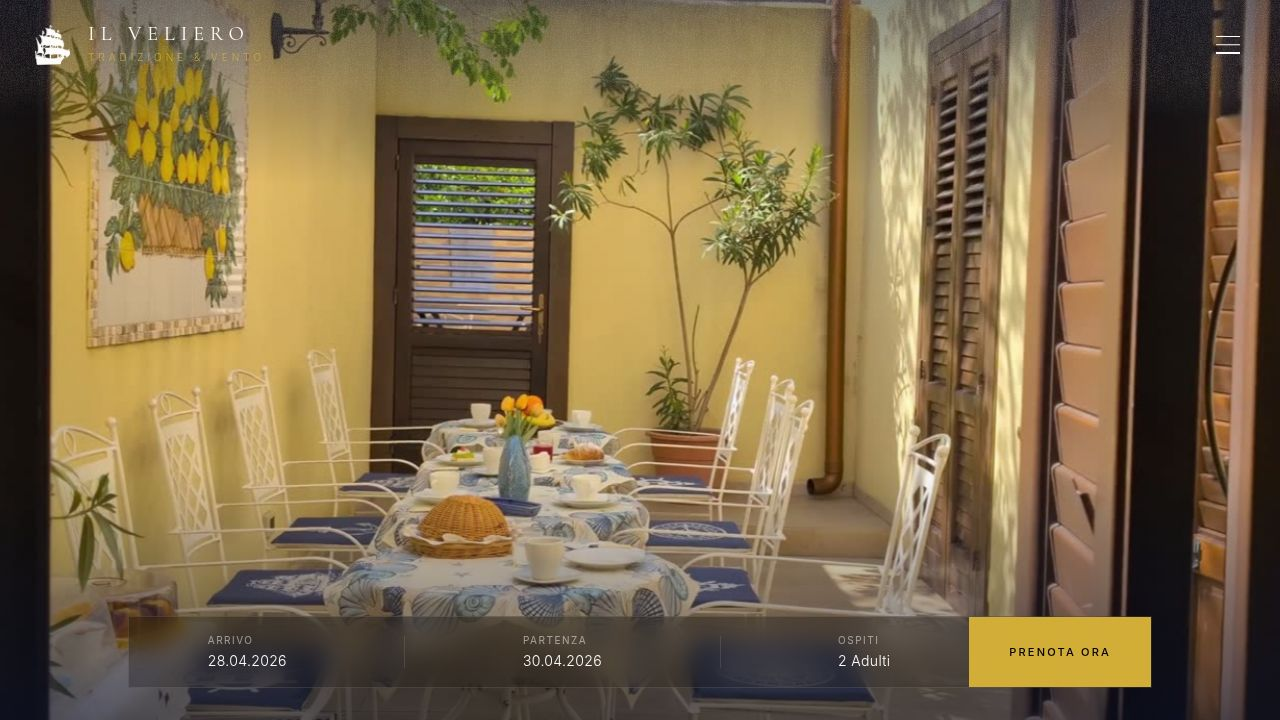
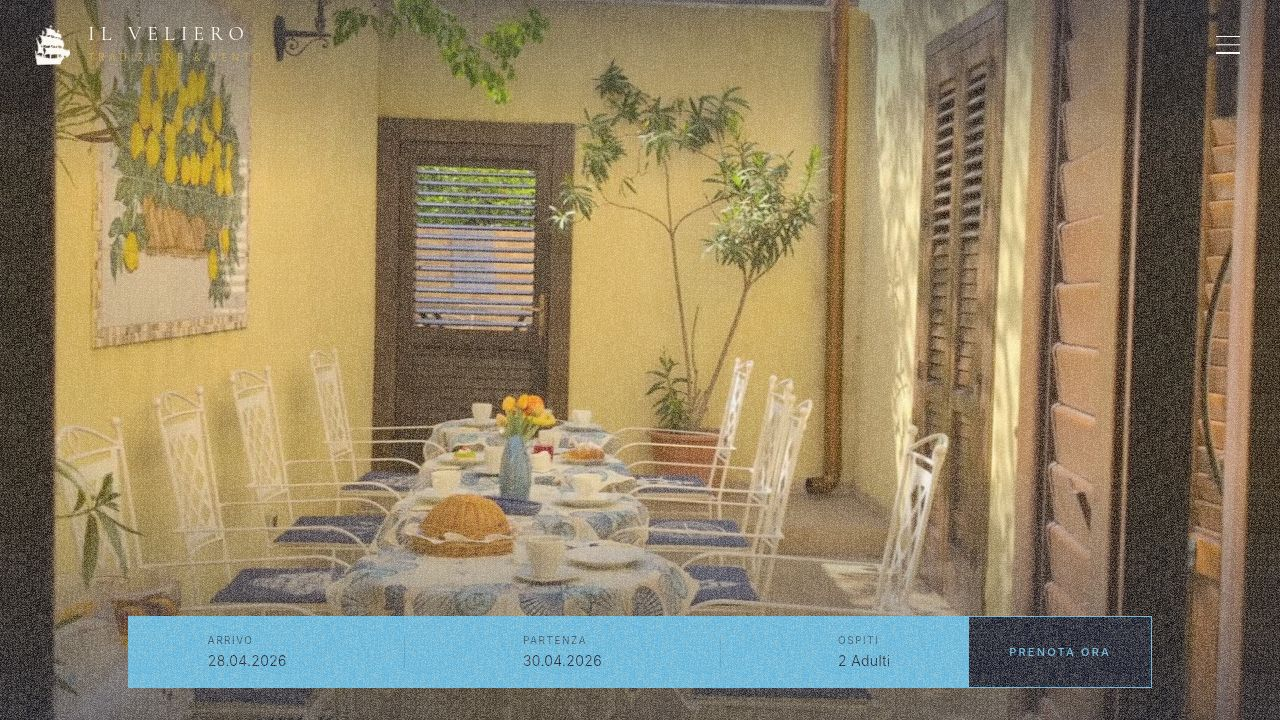
Improve audio effects and visual consistency across the site
Update audio playback for a more natural sound experience, ensure sand texture is always visible, adjust layering for better card visibility, remove redundant numerical indicators, and recolor the booking widget to a sky blue theme.

Replit-Commit-Author: Agent
Replit-Commit-Session-Id: 3282c254-39d9-4994-9800-a5c7eca78cf3
Replit-Commit-Checkpoint-Type: full_checkpoint
Replit-Commit-Event-Id: e3debff6-a54f-4010-af53-1acadac1ebcd
Replit-Commit-Screenshot-Url: https://storage.googleapis.com/screenshot-production-us-central1/efa49c66-f8b0-48f0-b6b8-e5fd97cf85d3/3282c254-39d9-4994-9800-a5c7eca78cf3/vIFCmKS
Replit-Helium-Checkpoint-Created: true

diff --git a/artifacts/il-veliero/src/components/SeaSound.tsx b/artifacts/il-veliero/src/components/SeaSound.tsx
@@ -3,21 +3,31 @@ import { useEffect, useRef } from 'react';
 /**
  * SeaSound — invisible.
  *
- * Simple rule: every touch (or click / first user gesture) plays
- *   - a 0.7-second burst of synthesised surf
- *   - the real seagull cry on top
- *
- * That's it. No scheduling, no intensity, no decay.
+ * Trigger rules (per latest user request):
+ *   • A trigger fires on touch, click, AND on desktop wheel/scroll
+ *     so that audio plays both on tap and on scroll-listing.
+ *   • A throttle of 700 ms between triggers prevents the surf bursts
+ *     from merging into one continuous wash while the user scrolls.
+ *   • Every trigger plays a 1.5-second surf wash with a slow fade
+ *     in / fade out so it sounds like a real wave, not a chopped clip.
+ *   • Every SECOND trigger also plays a real seagull cry on top of
+ *     the surf — i.e. the gull is heard every other touch, never on
+ *     consecutive ones.
  */
 const SEAGULL_URL = `${import.meta.env.BASE_URL}audio/seagull.mp3`;
+
+const MIN_GAP_MS = 700;
+const SURF_DURATION = 1.5;
 
 export default function SeaSound() {
   const ctxRef = useRef<AudioContext | null>(null);
   const gullBufferRef = useRef<AudioBuffer | null>(null);
   const noiseBufferRef = useRef<AudioBuffer | null>(null);
+  const lastFiredRef = useRef<number>(0);
+  const triggerCountRef = useRef<number>(0);
 
   useEffect(() => {
-    /** White-then-low-passed noise buffer — sounds like surf. */
+    /** Brown-noise buffer — sounds like ocean wash once low-passed. */
     const makeNoiseBuffer = (ctx: AudioContext, seconds: number): AudioBuffer => {
       const buf = ctx.createBuffer(1, ctx.sampleRate * seconds, ctx.sampleRate);
       const data = buf.getChannelData(0);
@@ -31,9 +41,10 @@ export default function SeaSound() {
     };
 
     /**
-     * Lazily create the AudioContext on the first user gesture
-     * (browsers reject context creation/resume otherwise) and
-     * decode the seagull MP3 once.
+     * Create the AudioContext and decode the seagull MP3 lazily, on
+     * the first user gesture. Browsers reject audio output before a
+     * user gesture, so this MUST happen inside an event handler call
+     * stack (it does — onGesture awaits this).
      */
     const ensureContext = async (): Promise<AudioContext | null> => {
       if (ctxRef.current) return ctxRef.current;
@@ -45,7 +56,7 @@ export default function SeaSound() {
 
       const ctx = new Ctor();
       ctxRef.current = ctx;
-      noiseBufferRef.current = makeNoiseBuffer(ctx, 1.5);
+      noiseBufferRef.current = makeNoiseBuffer(ctx, 3.0);
 
       if (ctx.state === 'suspended') {
         try {
@@ -55,42 +66,43 @@ export default function SeaSound() {
         }
       }
 
-      // Fetch + decode the seagull recording. First touch may fire
-      // before this resolves — that's fine, the cry will simply
-      // start playing on the next touch once the buffer is ready.
       try {
         const r = await fetch(SEAGULL_URL);
         const ab = await r.arrayBuffer();
         gullBufferRef.current = await ctx.decodeAudioData(ab);
       } catch {
-        /* ignore — surf still plays */
+        /* ignore — surf will still play */
       }
 
       return ctx;
     };
 
-    /** Play 0.7s of surf noise. */
+    /** Long, naturally-shaped surf wash. */
     const playSurf = (ctx: AudioContext) => {
       const noise = noiseBufferRef.current;
       if (!noise) return;
       const now = ctx.currentTime;
-      const dur = 0.7;
+      const dur = SURF_DURATION;
 
       const src = ctx.createBufferSource();
       src.buffer = noise;
-      // Random start offset within the 1.5s noise buffer for variety.
-      const offset = Math.random() * (noise.duration - dur - 0.05);
+      const offset = Math.random() * Math.max(0, noise.duration - dur - 0.05);
 
       const lp = ctx.createBiquadFilter();
       lp.type = 'lowpass';
-      lp.frequency.value = 800;
-      lp.Q.value = 0.6;
+      lp.frequency.value = 750;
+      lp.Q.value = 0.5;
+
+      const peak = 0.4;
+      const fadeIn = 0.45;
+      const fadeOut = 0.55;
+      const sustainStart = now + fadeIn;
+      const sustainEnd = now + dur - fadeOut;
 
       const g = ctx.createGain();
-      // Soft fade-in / fade-out so the burst feels like a wave wash.
       g.gain.setValueAtTime(0.0001, now);
-      g.gain.exponentialRampToValueAtTime(0.45, now + 0.1);
-      g.gain.setValueAtTime(0.45, now + dur - 0.18);
+      g.gain.exponentialRampToValueAtTime(peak, sustainStart);
+      g.gain.setValueAtTime(peak, Math.max(sustainStart + 0.01, sustainEnd));
       g.gain.exponentialRampToValueAtTime(0.0005, now + dur);
 
       src.connect(lp).connect(g).connect(ctx.destination);
@@ -108,13 +120,12 @@ export default function SeaSound() {
       }, (dur + 0.5) * 1000);
     };
 
-    /** Play one seagull cry on top of the surf. */
+    /** One seagull cry, with pitch & stereo variation. */
     const playGull = (ctx: AudioContext) => {
       const buffer = gullBufferRef.current;
       if (!buffer) return;
       const now = ctx.currentTime;
 
-      // 0.9..1.6s slice of the source recording.
       const sliceDur = 0.9 + Math.random() * 0.7;
       const maxStart = Math.max(0, buffer.duration - sliceDur - 0.05);
       const startOffset = Math.random() * maxStart;
@@ -157,24 +168,40 @@ export default function SeaSound() {
       }, (ctxDur + 0.5) * 1000);
     };
 
-    /** Single handler: ensure context, then play surf + gull. */
+    /**
+     * Single throttled handler. Surf on every accepted trigger;
+     * seagull only on every second accepted trigger.
+     */
     const onGesture = () => {
+      const now = performance.now();
+      if (now - lastFiredRef.current < MIN_GAP_MS) return;
+      lastFiredRef.current = now;
+      triggerCountRef.current += 1;
+      // Gull on every SECOND accepted trigger — i.e. 2nd, 4th, 6th… —
+      // so consecutive taps never produce two gull cries in a row.
+      const playGullThisTime = triggerCountRef.current % 2 === 0;
+
       void ensureContext().then((ctx) => {
         if (!ctx) return;
         if (ctx.state === 'suspended') {
           ctx.resume().catch(() => undefined);
         }
         playSurf(ctx);
-        playGull(ctx);
+        if (playGullThisTime) playGull(ctx);
       });
     };
 
-    window.addEventListener('touchstart', onGesture, { passive: true });
-    window.addEventListener('click', onGesture, { passive: true });
+    // pointerdown covers BOTH touch and mouse-click in one event,
+    // and wheel covers desktop trackpad / mouse-wheel scrolling.
+    // Both are passive — we never preventDefault.
+    window.addEventListener('pointerdown', onGesture, { passive: true });
+    window.addEventListener('wheel', onGesture, { passive: true });
+    window.addEventListener('keydown', onGesture, { passive: true });
 
     return () => {
-      window.removeEventListener('touchstart', onGesture);
-      window.removeEventListener('click', onGesture);
+      window.removeEventListener('pointerdown', onGesture);
+      window.removeEventListener('wheel', onGesture);
+      window.removeEventListener('keydown', onGesture);
       const ctx = ctxRef.current;
       if (ctx) {
         try {

diff --git a/artifacts/il-veliero/src/pages/Hero.tsx b/artifacts/il-veliero/src/pages/Hero.tsx
@@ -265,30 +265,37 @@ export default function Hero() {
             before. A single element / single ref / single
             data-testid is preserved so SandFilter and the GSAP intro
             both keep working. */}
+        {/* Booking widget — coloured to match the marquee band beneath it.
+            Body uses the same sky-blue (#5BB8E8) as the running text in the
+            marquee, with deep-navy (#0A1128) typography on top so the labels
+            and dates stay highly legible. The "Prenota Ora" CTA inverts to
+            navy with sky-blue text, then sweeps to a brighter aqua on hover.
+            This replaces the previous black/30-glass + gold button look the
+            user explicitly asked us to drop. */}
         <div
           ref={heroBookingRef}
-          className="relative z-20 w-full md:w-[95%] max-w-none md:max-w-5xl md:mx-auto bg-black/30 backdrop-blur-md border-y md:border border-white/10 flex flex-col md:flex-row justify-between items-stretch shadow-2xl md:absolute md:bottom-8 md:left-1/2 md:-translate-x-1/2"
+          className="relative z-20 w-full md:w-[95%] max-w-none md:max-w-5xl md:mx-auto bg-[#5BB8E8] border-y md:border border-[#5BB8E8] flex flex-col md:flex-row justify-between items-stretch shadow-2xl md:absolute md:bottom-8 md:left-1/2 md:-translate-x-1/2"
         >
-          <div className="flex-1 flex flex-col md:flex-row md:justify-around w-full px-5 md:px-6 py-4 text-white text-sm gap-3 md:gap-0 md:items-center">
+          <div className="flex-1 flex flex-col md:flex-row md:justify-around w-full px-5 md:px-6 py-4 text-[#0A1128] text-sm gap-3 md:gap-0 md:items-center">
             <div className="flex md:flex-col items-baseline md:items-start justify-between md:justify-start cursor-pointer group" data-testid="widget-checkin">
-              <span className="text-[10px] text-white/50 uppercase tracking-[0.15em] md:mb-1 group-hover:text-white transition-colors">Arrivo</span>
+              <span className="text-[10px] text-[#0A1128]/65 uppercase tracking-[0.15em] md:mb-1 group-hover:text-[#0A1128] transition-colors">Arrivo</span>
               <span className="font-light tracking-wide">28.04.2026</span>
             </div>
-            <div className="hidden md:block w-px h-8 bg-white/10 mx-2" />
-            <div className="block md:hidden h-px w-full bg-white/10" />
+            <div className="hidden md:block w-px h-8 bg-[#0A1128]/15 mx-2" />
+            <div className="block md:hidden h-px w-full bg-[#0A1128]/15" />
             <div className="flex md:flex-col items-baseline md:items-start justify-between md:justify-start cursor-pointer group" data-testid="widget-checkout">
-              <span className="text-[10px] text-white/50 uppercase tracking-[0.15em] md:mb-1 group-hover:text-white transition-colors">Partenza</span>
+              <span className="text-[10px] text-[#0A1128]/65 uppercase tracking-[0.15em] md:mb-1 group-hover:text-[#0A1128] transition-colors">Partenza</span>
               <span className="font-light tracking-wide">30.04.2026</span>
             </div>
-            <div className="hidden md:block w-px h-8 bg-white/10 mx-2" />
-            <div className="block md:hidden h-px w-full bg-white/10" />
+            <div className="hidden md:block w-px h-8 bg-[#0A1128]/15 mx-2" />
+            <div className="block md:hidden h-px w-full bg-[#0A1128]/15" />
             <div className="flex md:flex-col items-baseline md:items-start justify-between md:justify-start cursor-pointer group" data-testid="widget-guests">
-              <span className="text-[10px] text-white/50 uppercase tracking-[0.15em] md:mb-1 group-hover:text-white transition-colors">Ospiti</span>
+              <span className="text-[10px] text-[#0A1128]/65 uppercase tracking-[0.15em] md:mb-1 group-hover:text-[#0A1128] transition-colors">Ospiti</span>
               <span className="font-light tracking-wide">2 Adulti</span>
             </div>
           </div>
           <button
-            className="bg-[#D4AF37] text-black px-6 md:px-10 py-4 uppercase text-[11px] tracking-[0.2em] font-medium transition-all duration-500 w-full md:w-auto hover:shadow-xl relative overflow-hidden group"
+            className="bg-[#0A1128] text-[#5BB8E8] px-6 md:px-10 py-4 uppercase text-[11px] tracking-[0.2em] font-medium transition-all duration-500 w-full md:w-auto hover:shadow-xl relative overflow-hidden group"
             data-testid="btn-prenota"
           >
             <span className="relative z-10 transition-transform duration-300 group-hover:translate-x-1 group-hover:text-[#0A1128]">Prenota Ora</span>

diff --git a/artifacts/il-veliero/src/pages/DimoreTeaser.tsx b/artifacts/il-veliero/src/pages/DimoreTeaser.tsx
@@ -438,34 +438,24 @@ export default function DimoreTeaser() {
               </svg>
             </button>
 
-            <div className="absolute bottom-4 left-1/2 -translate-x-1/2 flex items-center gap-3 px-4 py-2 bg-white/85 backdrop-blur-sm z-20">
-              <span className="text-[10px] tracking-[0.2em] uppercase text-[#0A1128] font-bold tabular-nums">
-                {String(currentPhoto + 1).padStart(2, '0')} / {String(totalPhotos).padStart(2, '0')}
-              </span>
-              <div className="flex items-center gap-1.5">
-                {room.photos.map((_, i) => (
-                  <button
-                    key={i}
-                    type="button"
-                    aria-label={`Vai alla foto ${i + 1}`}
-                    onClick={() => setPhotoForActive(i)}
-                    className={`h-[3px] transition-all duration-300 ${
-                      i === currentPhoto ? 'w-6 bg-[#D4AF37]' : 'w-3 bg-[#0A1128]/30 hover:bg-[#0A1128]/60'
-                    }`}
-                  />
-                ))}
-              </div>
+            {/* Indicator strip — only the dots, the "01 / 05" numeric
+                pagination was removed at the user's request. */}
+            <div className="absolute bottom-4 left-1/2 -translate-x-1/2 flex items-center gap-1.5 px-4 py-2 bg-white/85 backdrop-blur-sm z-20">
+              {room.photos.map((_, i) => (
+                <button
+                  key={i}
+                  type="button"
+                  aria-label={`Vai alla foto ${i + 1}`}
+                  onClick={() => setPhotoForActive(i)}
+                  className={`h-[3px] transition-all duration-300 ${
+                    i === currentPhoto ? 'w-6 bg-[#D4AF37]' : 'w-3 bg-[#0A1128]/30 hover:bg-[#0A1128]/60'
+                  }`}
+                />
+              ))}
             </div>
           </div>
 
           <div ref={textRef} className="flex flex-col justify-center">
-            <div className="flex items-center gap-3 mb-5">
-              <span className="w-8 h-[1px] bg-[#D4AF37]" />
-              <span className="text-[10px] tracking-[0.25em] uppercase text-[#D4AF37] font-bold">
-                {String(activeRoom + 1).padStart(2, '0')} · {String(ROOMS.length).padStart(2, '0')}
-              </span>
-            </div>
-
             <h3 className="text-3xl md:text-4xl font-serif mb-2">{room.name}</h3>
             <p className="text-sm tracking-[0.15em] uppercase text-[#0A1128]/50 mb-6">
               {room.tagline}
@@ -490,15 +480,9 @@ export default function DimoreTeaser() {
               </div>
             </dl>
 
-            <a
-              href="#footer"
-              className="bg-[#D4AF37] text-[#0A1128] px-10 py-4 uppercase text-[11px] tracking-[0.2em] font-bold inline-block w-fit relative overflow-hidden group hover:shadow-lg transition-shadow duration-500"
-            >
-              <span className="relative z-10 inline-block transition-transform duration-300 group-hover:translate-x-[3px]">
-                Prenota {room.name}
-              </span>
-              <span className="absolute inset-0 bg-white scale-x-0 group-hover:scale-x-100 origin-left transition-transform duration-500" />
-            </a>
+            {/* Per-room "Prenota Scirocco / Mistral / …" CTA was removed
+                at the user's request — guests use the global booking
+                widget at the top of the hero to start a reservation. */}
           </div>
         </div>
       </div>

diff --git a/artifacts/il-veliero/src/components/SandFilter.tsx b/artifacts/il-veliero/src/components/SandFilter.tsx
@@ -91,28 +91,28 @@ export default function SandFilter() {
     // is what made the previous listener feel binary. A per-frame
     // poll is cheap (one number compare + one style write at most)
     // and guarantees the opacity tracks scroll exactly.
+    //
+    // IMPORTANT: the body layer always paints at AT LEAST `BODY_FLOOR`
+    // (≈ 0.55). Without this floor the sand was invisible at the top
+    // of the page and could appear to "disappear" entirely on short
+    // viewports where scrollY/endScroll resolved very close to zero.
+    // The user explicitly asked for the sand to never vanish.
+    const BODY_FLOOR = 0.55;
+    const HEAD_FLOOR = 0.45;
     const tick = () => {
       if (!alive) return;
       const sy = window.scrollY || document.documentElement.scrollTop || 0;
       const tRaw = Math.min(1, Math.max(0, sy / endScroll));
-      // Perceptual ramp — a pure-linear opacity curve looks like a
-      // hard switch because the sand textures only become visible
-      // around opacity ~0.4. A sqrt curve front-loads the visible
-      // growth so the very first scroll already shows real grain.
+      // Perceptual ramp — sqrt front-loads the visible growth so the
+      // very first scroll already shows real grain.
       const t = Math.sqrt(tRaw);
-      // Skip the style write when nothing changed (saves layout work
-      // when the page is idle). Apply opacity DIRECTLY to each fixed
-      // layer (no shared parent) — avoids an opacity-on-parent issue
-      // where some browsers fail to propagate parent opacity onto
-      // position:fixed descendants when the parent has zero size.
       if (Math.abs(t - lastApplied) > 0.001) {
-        // Body layer: starts at 0 and grows to 1 (existing behaviour).
-        body.style.opacity = String(t);
-        // Header layer: keep a small baseline (0.18) at scroll-top so
-        // the header always reads as "sand on navy" — never as flat
-        // colour. This is the most expensive part of the brand feel
-        // and must never be invisible.
-        const headT = 0.18 + (1 - 0.18) * t;
+        // Body & header layers each have their own baseline floor so
+        // the sand reads as "always there, slightly intensifying
+        // with scroll" rather than "fades in from invisible".
+        const bodyT = BODY_FLOOR + (1 - BODY_FLOOR) * t;
+        const headT = HEAD_FLOOR + (1 - HEAD_FLOOR) * t;
+        body.style.opacity = String(bodyT);
         head.style.opacity = String(headT);
         lastApplied = t;
       }
@@ -170,7 +170,7 @@ export default function SandFilter() {
         ref={bodyLayerRef}
         className="fixed inset-0 z-[105] pointer-events-none"
         style={{
-          opacity: 0,
+          opacity: 0.55,
           maskImage:
             'linear-gradient(to bottom, transparent 0px, transparent 80px, black 120px)',
           WebkitMaskImage:
@@ -209,7 +209,7 @@ export default function SandFilter() {
         ref={headerLayerRef}
         className="fixed top-0 left-0 right-0 h-[120px] z-[160] pointer-events-none"
         style={{
-          opacity: 0.18,
+          opacity: 0.45,
           maskImage:
             'linear-gradient(to bottom, black 0px, black 80px, transparent 120px)',
           WebkitMaskImage:

diff --git a/artifacts/il-veliero/src/pages/Footer.tsx b/artifacts/il-veliero/src/pages/Footer.tsx
@@ -46,7 +46,7 @@ export default function Footer() {
   return (
     <footer
       id="footer"
-      className="bg-[#0A1128] text-white pt-14 pb-10 px-6 lg:px-20 relative z-[95] overflow-hidden"
+      className="bg-[#0A1128] text-white pt-14 pb-10 px-6 lg:px-20 relative overflow-hidden"
     >
 
       <div className="absolute inset-0 opacity-5 bg-[radial-gradient(circle_at_center,_var(--tw-gradient-stops))] from-white to-transparent pointer-events-none"></div>
@@ -66,12 +66,26 @@ export default function Footer() {
         data-testid="footer-sand-texture"
       />
 
-      <div className="max-w-7xl mx-auto relative z-10">
+      {/* The outer max-w wrapper used to be `relative z-10`. The z-10
+          created a stacking context that trapped its descendants below
+          the global SandFilter (z-[105]) — even children with z-[110]
+          could not escape. We keep `relative` (so the absolute decorative
+          overlays above still position against the footer outer) and
+          drop the explicit z so this wrapper no longer creates a
+          stacking context. The content sits visually above the
+          decorative overlays via DOM order alone (they are written
+          first as siblings of the footer outer). */}
+      <div className="max-w-7xl mx-auto relative">
 
-        {/* "Cosa fare" carousel — replaces the old "Inizia il tuo viaggio" headline */}
+        {/* "Cosa fare" carousel — replaces the old "Inizia il tuo viaggio" headline.
+            z-[110] + isolate lifts this section above the global SandFilter
+            (z-[105]) so the cards are clearly visible — exactly the same
+            treatment the room photos elsewhere on the page get. The
+            heading and the rest of the footer remain at default z so
+            they keep their warm sand grain on top. */}
         <section
           id="cosa-fare"
-          className="mb-10 border-b border-white/10 pb-10"
+          className="relative z-[110] isolate mb-10 border-b border-white/10 pb-10"
           data-testid="cosa-fare-section"
         >
           <div className="flex flex-col md:flex-row md:items-end md:justify-between gap-6 mb-8">
